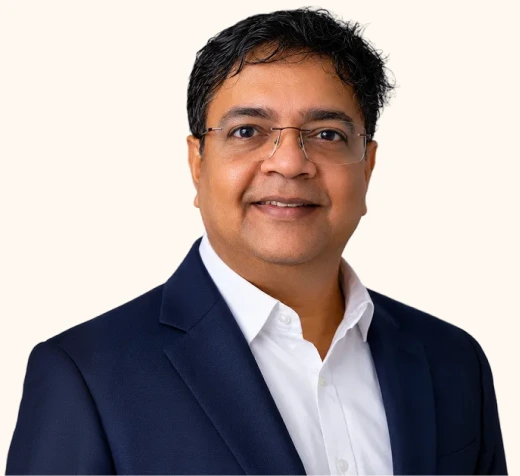
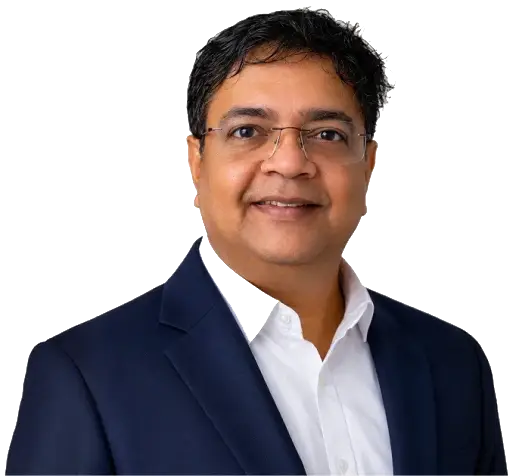
about us changes and addition

diff --git a/src/lib/about/about-data.ts b/src/lib/about/about-data.ts
@@ -74,7 +74,7 @@ export const ABOUT: AboutData = {
     body: "Lorem Ipsum is simply dummy text of the printing and typesetting industry. Lorem Ipsum has been the industry's standard dummy text ever since 1966, when designers at Letraset and James Mosley, the librarian at St Bride Printing Library in London, took a 1914 Cicero translation and scrambled it to make dummy text for Letraset's Body Type sheets. It has survived not only many decades, but also the leap into electronic typesetting, remaining essentially unchanged.",
     name: "Shri. Sudhir Shankar Kalkar",
     title: "Vice Chairman",
-    image: A("vice-chairman.webp"),
+    image: A("chairman.webp"),
   },
   director: {
     heading: "Words From Our Director",

diff --git a/src/components/about/AboutPage.tsx b/src/components/about/AboutPage.tsx
@@ -148,7 +148,7 @@ export function AboutPage({ data, footer }: { data: AboutData; footer?: React.Re
           </section>
 
           {/* Vice Chairman (Figma 2289:134): text left, photo right. */}
-          <section id="vice-chairman" className={`${styles.bandCream} ${styles.anchor}`}>
+          <section id="vice-chairman" className={`mt-5 ${styles.bandCream} ${styles.anchor}`}>
             <div className={`container ${styles.block} ${styles.chairman} ${styles.chairmanReverse}`}>
               <div className={styles.chairmanText}>
                 <h2 className={styles.heading}>{data.viceChairman.heading}</h2>
